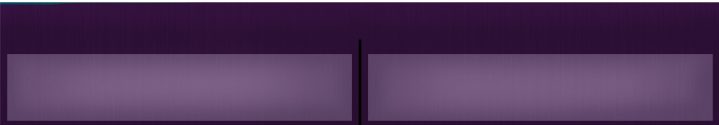
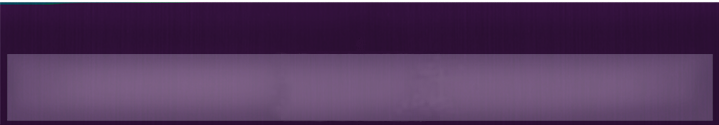
clickable images for world 1 and unifying option button

Changed region(s): [[0.459, 0.432, 0.5508, 0.984]]

diff --git a/kapotopia/core/src/gdx/kapotopia/Screens/World1.java b/kapotopia/core/src/gdx/kapotopia/Screens/World1.java
@@ -5,13 +5,17 @@ import com.badlogic.gdx.InputMultiplexer;
 import com.badlogic.gdx.Screen;
 import com.badlogic.gdx.audio.Sound;
 import com.badlogic.gdx.graphics.GL20;
+import com.badlogic.gdx.graphics.Texture;
+import com.badlogic.gdx.graphics.g2d.NinePatch;
 import com.badlogic.gdx.scenes.scene2d.Stage;
 import com.badlogic.gdx.scenes.scene2d.ui.Image;
+import com.badlogic.gdx.scenes.scene2d.ui.ImageButton;
 import com.badlogic.gdx.scenes.scene2d.ui.TextButton;
 
 import gdx.kapotopia.AssetsManaging.AssetDescriptors;
 import gdx.kapotopia.Fonts.FontHelper;
 import gdx.kapotopia.Helpers.Alignement;
+import gdx.kapotopia.Helpers.Builders.ImageButtonBuilder;
 import gdx.kapotopia.Helpers.Builders.TextButtonBuilder;
 import gdx.kapotopia.Helpers.ChangeScreenListener;
 import gdx.kapotopia.Helpers.StandardInputAdapter;
@@ -28,9 +32,20 @@ public class World1 implements Screen {
 
     public World1(final Kapotopia game) {
         this.game = game;
-        Image imgFond = new Image(game.ass.get(AssetDescriptors.MM_W1));
+        //Image imgFond = new Image(game.ass.get(AssetDescriptors.MM_W1));
+        Texture imgFondGame1 = game.ass.get(AssetDescriptors.WORLD1_GAME1);
+        Texture imgFondGame2 = game.ass.get(AssetDescriptors.WORLD1_GAME2);
+        ImageButton imgGame1 = new ImageButtonBuilder()
+                .withImageUp(imgFondGame1)
+                .withListener(new ChangeScreenListener(game, ScreenType.MOCKUPG1))
+                .withBounds(0, game.viewport.getWorldHeight()/2, game.viewport.getWorldWidth(), game.viewport.getWorldHeight()/2)
+                .build();
+        ImageButton imgGame2 = new ImageButtonBuilder()
+                .withImageUp(imgFondGame2)
+                .withListener(new ChangeScreenListener(game, ScreenType.MOCKUPG2))
+                .withBounds(0,0, game.viewport.getWorldWidth(), game.viewport.getWorldHeight()/2)
+                .build();
         stage = new Stage(game.viewport);
-        stage.addActor(imgFond);
 
         // Import sounds
         this.pauseSound = game.ass.get(AssetDescriptors.SOUND_PAUSE);
@@ -45,7 +60,8 @@ public class World1 implements Screen {
                 .withY(y * 0.1f).withAlignment(Alignement.CENTER)
                 .withListener(new ChangeScreenListener(game, ScreenType.MOCKUPG2)).build();
 
-        stage.addActor(imgFond);
+        stage.addActor(imgGame1);
+        stage.addActor(imgGame2);
         stage.addActor(game1);
         stage.addActor(game2);
     }

diff --git a/kapotopia/core/src/gdx/kapotopia/Screens/MainMenu.java b/kapotopia/core/src/gdx/kapotopia/Screens/MainMenu.java
@@ -87,7 +87,7 @@ public class MainMenu implements Screen {
         ImageButton imageBtnToWorld1 = new ImageButtonBuilder()
                 .withImageUp(part_1)
                 .withListener(new ChangeScreenListener(game, ScreenType.WORLD1))
-                .withBounds(0, (float) (2*game.viewport.getWorldHeight()/3)+15, game.viewport.getWorldWidth(), (float) (game.viewport.getWorldHeight()/3))
+                .withBounds(0, (float) (2*game.viewport.getWorldHeight()/3)+15, game.viewport.getWorldWidth(), game.viewport.getWorldHeight()/3)
                 .build();
         final TextButton btnToWorld1 = new TextButtonBuilder(game, game.loc.getString("text_world1"))
                 .withStyle(style)
@@ -116,8 +116,11 @@ public class MainMenu implements Screen {
                 .withImageUp(part_4)
                 .withListener(new ChangeScreenListener(game, ScreenType.OPTIONS))
                 .build();
-        final TextButton optionsBtn = new TextButtonBuilder(game, "Options").withStyle(style).withPosition(x / 3, y * 0.01f)
-                .withListener(new ChangeScreenListener(game, ScreenType.OPTIONS)).build();
+        final TextButton optionsBtn = new TextButtonBuilder(game, "Options")
+                .withStyle(style)
+                .withY(y*0.01f).withAlignment(Alignement.CENTER)
+                .withListener(new ChangeScreenListener(game, ScreenType.OPTIONS))
+                .build();
 
         Label version = new LabelBuilder(game, "v:" + GameConfig.VERSION_NAME + " | code:" + GameConfig.VERSION_CODE)
                 .withStyle(FontHelper.AESTHETIC_TINY_BLACK).withPosition(15, 0).build();

diff --git a/kapotopia/core/src/gdx/kapotopia/AssetsManaging/AssetDescriptors.java b/kapotopia/core/src/gdx/kapotopia/AssetsManaging/AssetDescriptors.java
@@ -48,6 +48,10 @@ public class AssetDescriptors {
             new AssetDescriptor<Texture>(AssetPaths.MM_PART4_CUT, Texture.class); // % loaded at the start
     public static final AssetDescriptor<Texture> MM_W1 =
             new AssetDescriptor<Texture>(AssetPaths.MM_W1, Texture.class); // % loaded at the start
+    public static final AssetDescriptor<Texture> WORLD1_GAME1 =
+            new AssetDescriptor<Texture>(AssetPaths.WORLD1_GAME1, Texture.class); // % loaded at the start
+    public static final AssetDescriptor<Texture> WORLD1_GAME2 =
+            new AssetDescriptor<Texture>(AssetPaths.WORLD1_GAME2, Texture.class); // % loaded at the start
     public static final AssetDescriptor<Texture> MM_W2 =
             new AssetDescriptor<Texture>(AssetPaths.MM_W2, Texture.class); // % loaded at the start
     // Options

diff --git a/kapotopia/core/src/gdx/kapotopia/AssetsManaging/AssetPaths.java b/kapotopia/core/src/gdx/kapotopia/AssetsManaging/AssetPaths.java
@@ -19,6 +19,8 @@ public class AssetPaths {
     public static final String MM_PART4 = "EcranMenu/MenuPrincipalBoutons.png";
     public static final String MM_PART4_CUT = "EcranMenu/MenuPrincipalBoutons_cut.png";
     public static final String MM_W1 = "EcranMenu/World1EcranMenu.png";
+    public static final String WORLD1_GAME1 = "EcranMenu/World1EcranMenuCadre1_cut.png";
+    public static final String WORLD1_GAME2 = "EcranMenu/World1EcranMenuCadre2_cut.png";
     public static final String MM_W2 = "game3/intro/Monde2Ecran1.png";
     // Options
     public static final String OP_BACK = "EcranMenu/EcranOption.png";

diff --git a/kapotopia/core/src/gdx/kapotopia/Kapotopia.java b/kapotopia/core/src/gdx/kapotopia/Kapotopia.java
@@ -146,6 +146,8 @@ public class Kapotopia extends com.badlogic.gdx.Game {
         this.ass.load(AssetDescriptors.LEAVES);
         this.ass.load(AssetDescriptors.CROQUIS);
         this.ass.load(AssetDescriptors.MM_W1);
+        this.ass.load(AssetDescriptors.WORLD1_GAME1);
+        this.ass.load(AssetDescriptors.WORLD1_GAME2);
         // IntroG2
 		this.ass.load(AssetDescriptors.SABLE);
 		this.ass.load(AssetDescriptors.SEA);
